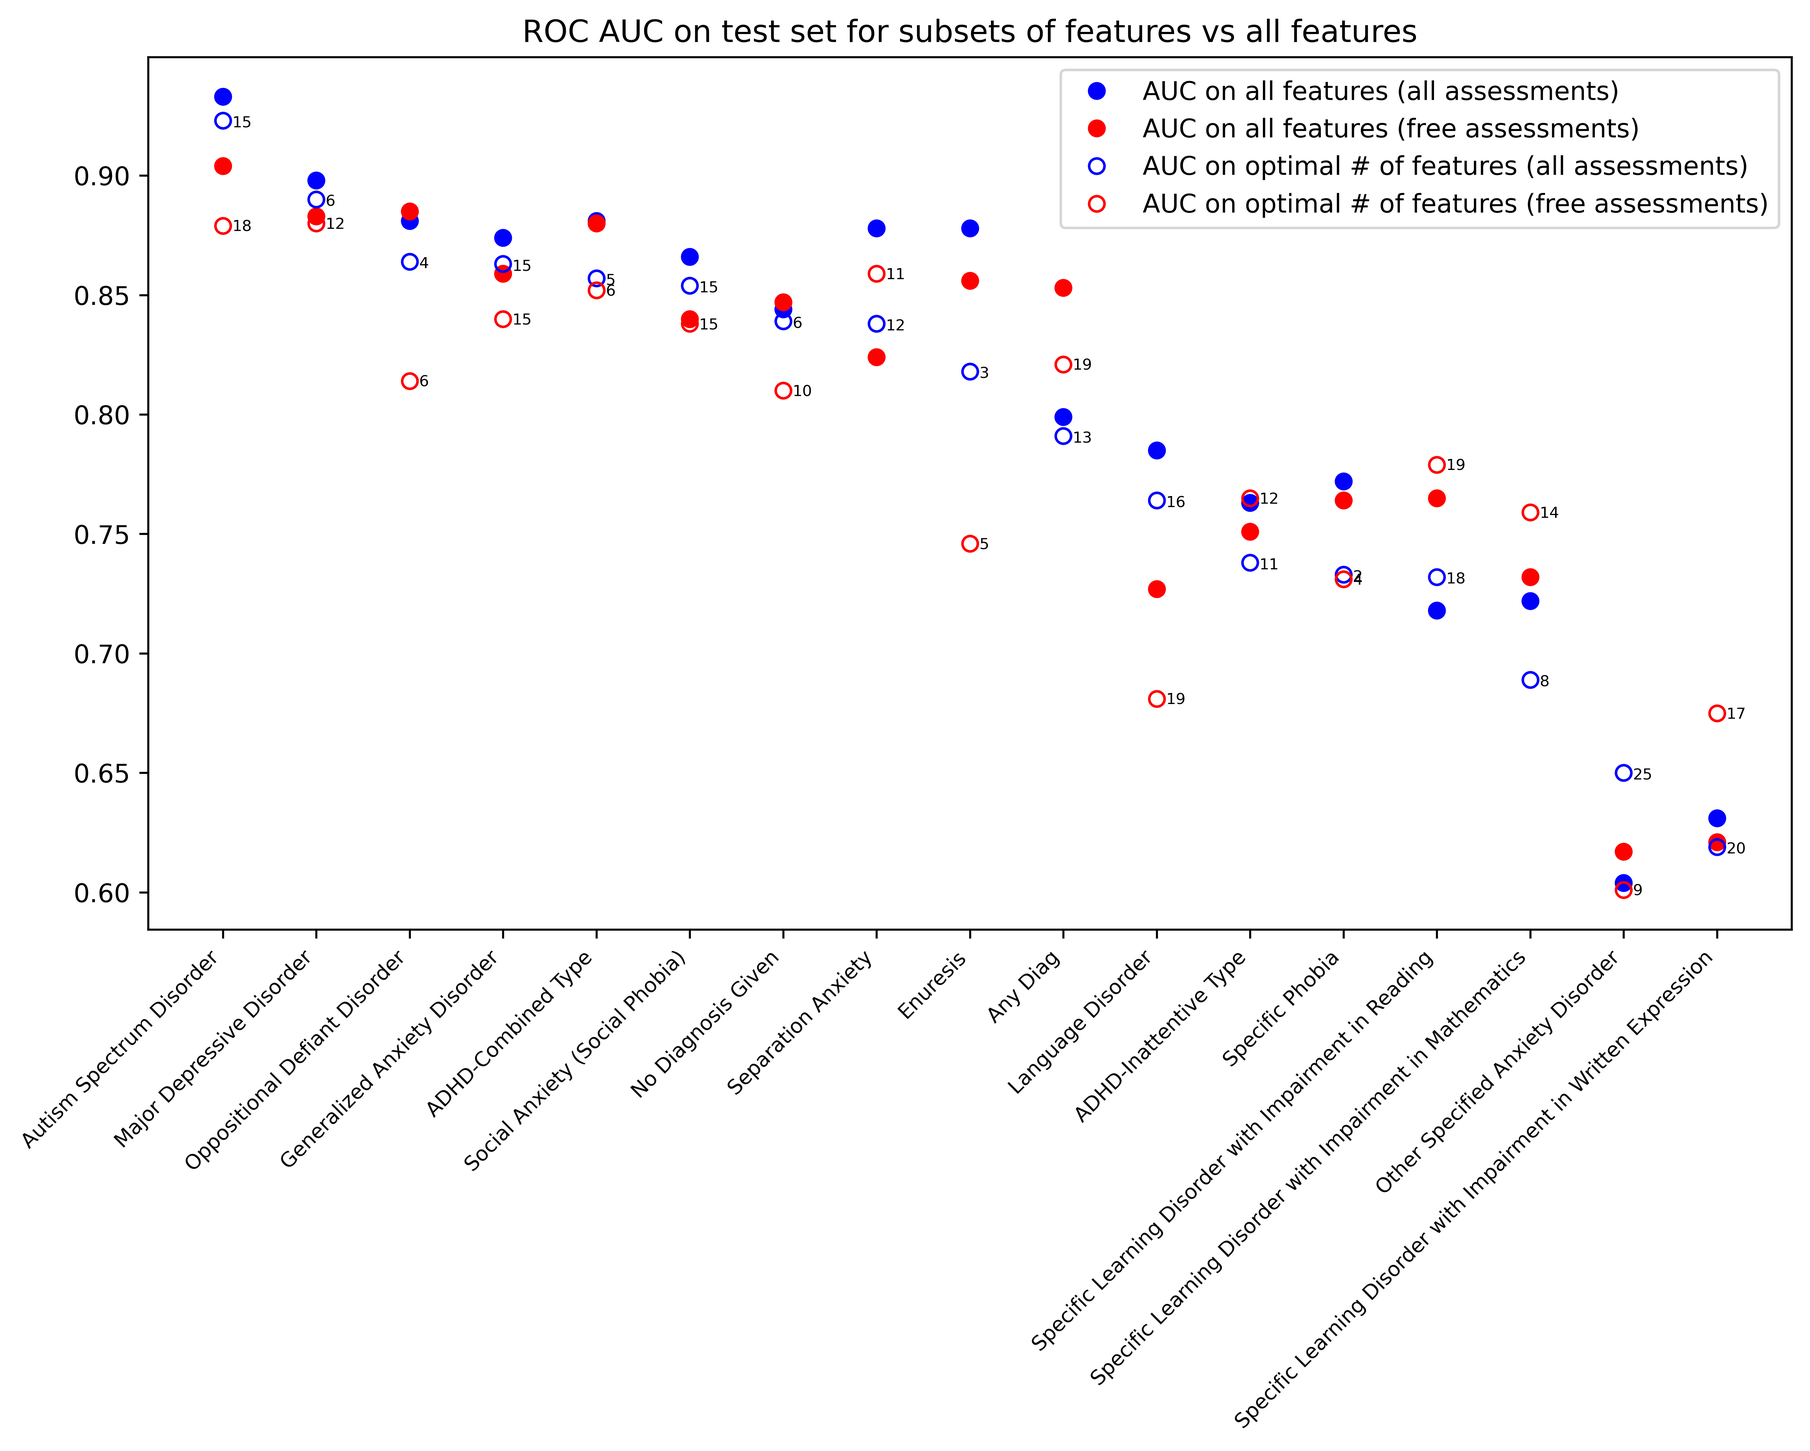
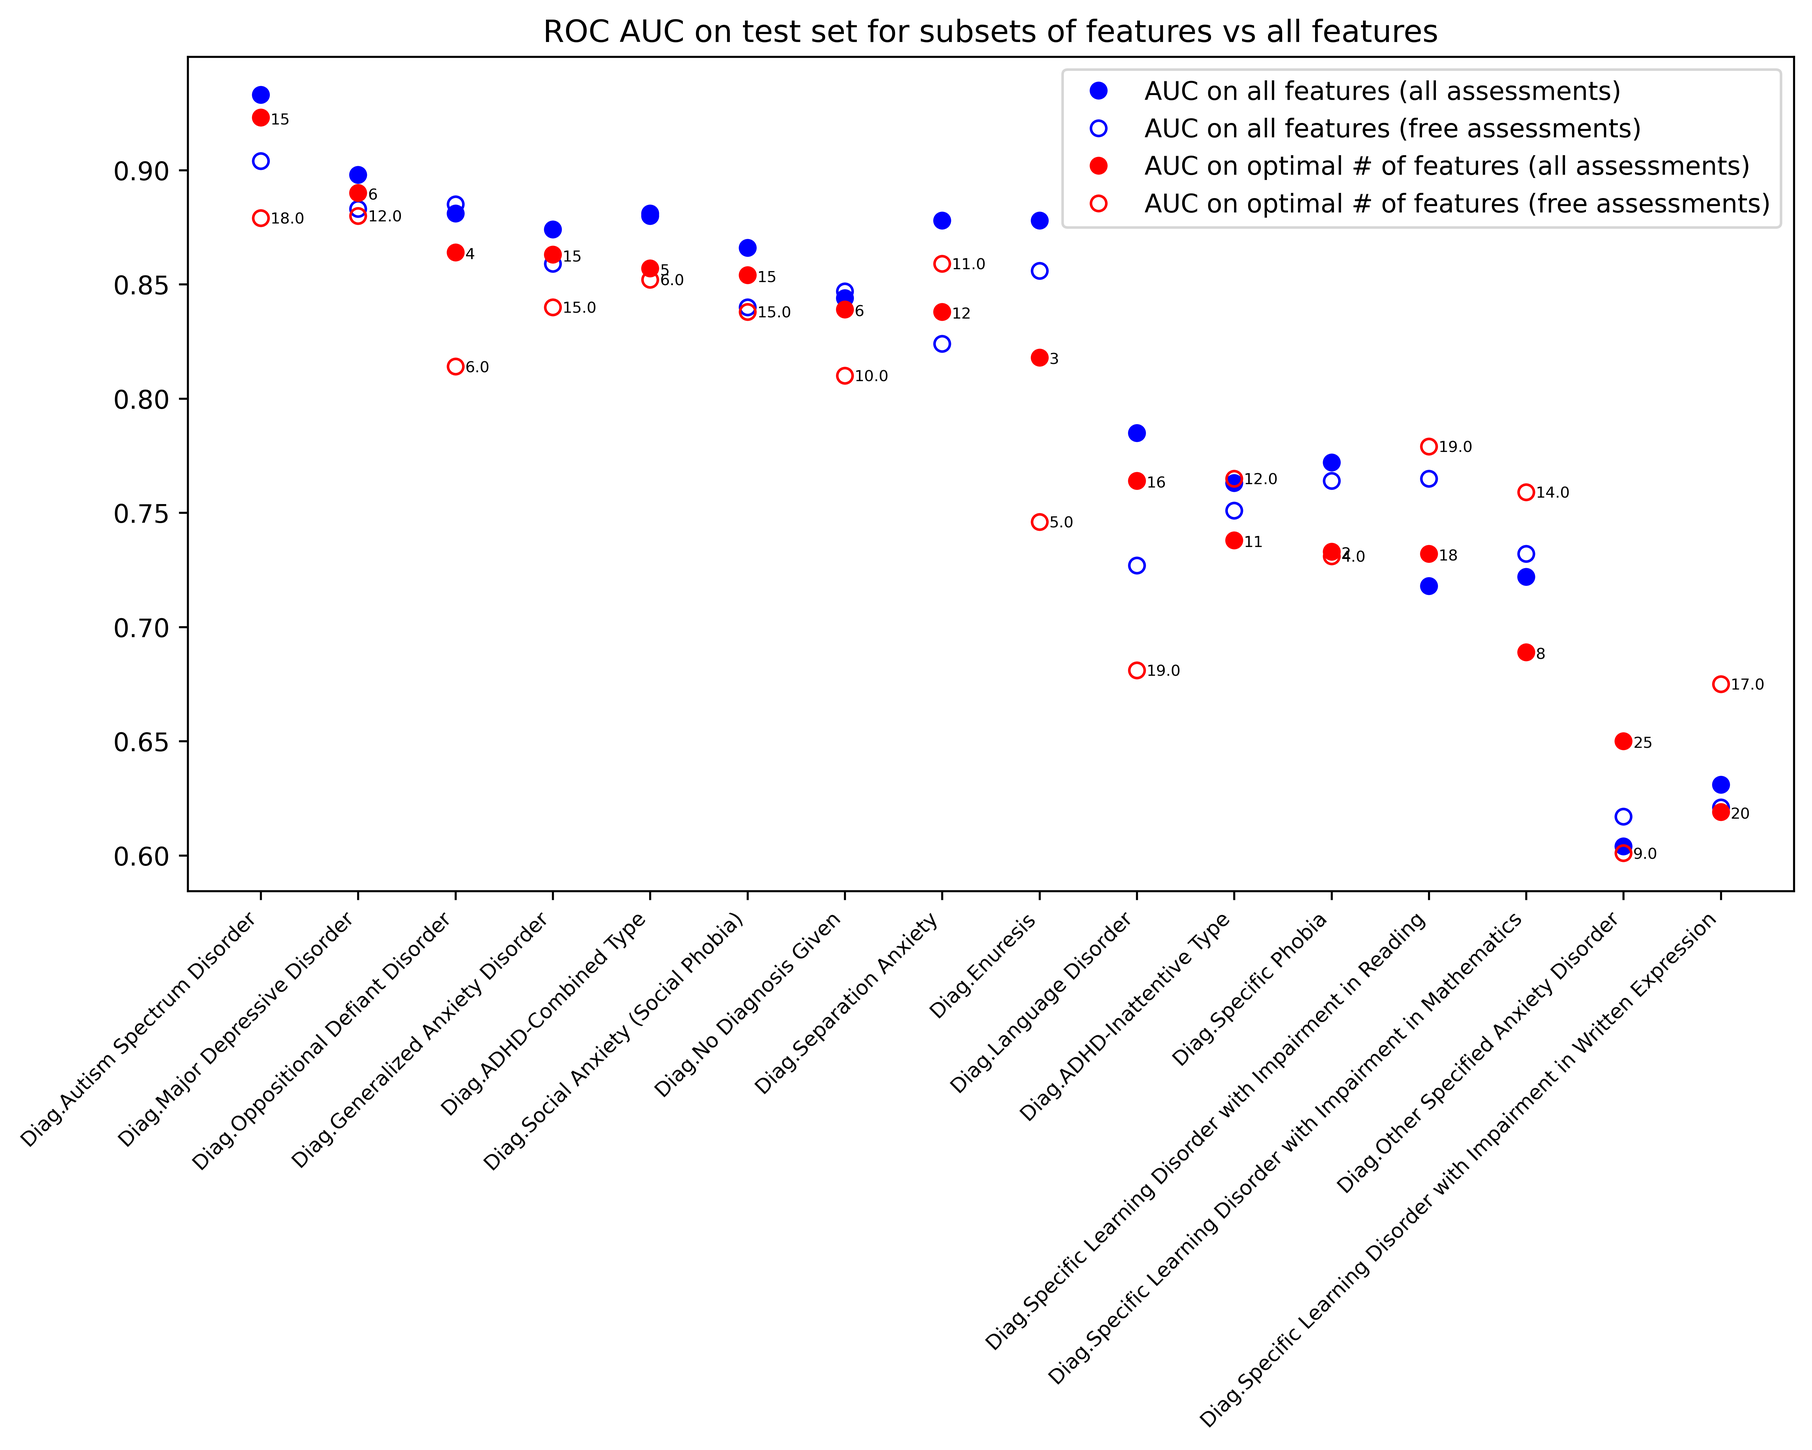
refactor, save tables

diff --git a/make_plots.py b/make_plots.py
@@ -4,6 +4,8 @@ import pandas as pd
 import matplotlib.pyplot as plt
 import seaborn as sns
 
+from make_final_tables import read_data_eval_subsets
+
 diagnosis_dict = {
         'Diag.Major Depressive Disorder': 'MDD',
         'Diag.Autism Spectrum Disorder': 'ASD',
@@ -24,82 +26,20 @@ diagnosis_dict = {
         'Diag.Other Specified Anxiety Disorder': 'Other Anxiety'
     }
 
-def read_data_eval_orig():
-    # Read report tables to visualize
-    path_eval_orig = "../diagnosis_predictor_data/reports/evaluate_original_models/"
-    dir_eval_orig_all = get_newest_non_empty_dir_in_dir(path_eval_orig, ["first_assessment_to_drop", # several assessments were used as opposed to one single assessment
-                                                                    "only_free_assessments__0",
-                                                                    #"debug_mode__False"
-                                                                    ])
-    dir_eval_orig_free = get_newest_non_empty_dir_in_dir(path_eval_orig, ["first_assessment_to_drop", # several assessments were used as opposed to one single assessment
-                                                                    "only_free_assessments__1",
-                                                                    #"debug_mode__False"
-                                                                    ])
-    
-    return dir_eval_orig_all, dir_eval_orig_free
+def make_df_to_plot_thresholds(dir_eval_subsets_all, filename):
 
-def read_data_eval_subsets():
+    df_opt_features_all = pd.read_csv(dir_eval_subsets_all + "sens-spec-on-subsets-test-set-optimal-nb-features/" + filename, 
+                                      index_col=0)
 
-    path_eval_subsets = "../diagnosis_predictor_data/reports/evaluate_models_on_feature_subsets/"
-    dir_eval_subsets_all = get_newest_non_empty_dir_in_dir(path_eval_subsets, ["first_assessment_to_drop", # several assessments were used as opposed to one single assessment
-                                                                  "only_free_assessments__0",
-                                                                  #"debug_mode__False"
-                                                                  ])
-    dir_eval_subsets_free = get_newest_non_empty_dir_in_dir(path_eval_subsets, ["first_assessment_to_drop", # several assessments were used as opposed to one single assessment
-                                                                  "only_free_assessments__1",
-                                                                  #"debug_mode__False"
-                                                                  ])
-
-    return dir_eval_subsets_all, dir_eval_subsets_free
-
-def make_df_to_plot_eval_orig(dir_eval_orig_all, dir_eval_orig_free):
-    # Read ROC AUC on all features on test set and for only healthy controls, for all assessments and free assessments
-    eval_orig_all_df = pd.read_csv(dir_eval_orig_all + "performance_table_all_features.csv", index_col=0)
-    eval_orig_free_df = pd.read_csv(dir_eval_orig_free + "performance_table_all_features.csv", index_col=0)
-
-    # Each row is diagnosis (index), plot ROC AUC column and ROC AUC healthy controls column. 
-    # Plot both for all assessments and free assessments on the same plot, add number of positive examples to each diagnosis
-    eval_orig_all_df = eval_orig_all_df[["ROC AUC", "ROC AUC Healthy Controls", "# of Positive Examples"]]
-    eval_orig_free_df = eval_orig_free_df[["ROC AUC", "ROC AUC Healthy Controls"]]
-    eval_orig_all_df.columns = ["ROC AUC all assessments", "ROC AUC healthy controls all assessments", "# of Positive Examples"]
-    eval_orig_free_df.columns = ["ROC AUC free assessments", "ROC AUC healthy controls free assessments"]
-    eval_orig_df = eval_orig_all_df.merge(eval_orig_free_df, left_index=True, right_index=True).sort_values(by="ROC AUC all assessments", ascending=False)
-
-    # Rephrase diags to shorter names
-    eval_orig_df = eval_orig_df.rename(index=diagnosis_dict)
-
-    return eval_orig_df
-
-def make_df_to_plot_eval_subsets(dir_eval_subsets_all, dir_eval_subsets_free):
-    df_opt_features_all = pd.read_csv(dir_eval_subsets_all + "auc-sens-spec-on-subsets-test-set-optimal-threshold-optimal-nb-features.csv", index_col=1)
-    df_opt_features_free = pd.read_csv(dir_eval_subsets_free + "auc-sens-spec-on-subsets-test-set-optimal-threshold-optimal-nb-features.csv", index_col=1)
-
-    df_manual = pd.read_csv("output/manual_scoring_analysis/manual_subsale_scores_vs_ml.csv", index_col=0)
-
-    # Make one dataset with all info
-    df_opt_features_all = df_opt_features_all[["AUC", "Number of features"]]
-    df_opt_features_all.columns = ["AUC all assessments", "Optimal # of features all assessments"]
-    df_opt_features_free = df_opt_features_free[["AUC", "Number of features"]]
-    df_opt_features_free.columns = ["AUC free assessments", "Optimal # of features free assessments"]
-    df_opt_features = df_opt_features_all.merge(df_opt_features_free, left_index=True, right_index=True)
-
-    # Add manual scoring
-    df_opt_features = df_opt_features.merge(df_manual, left_index=True, right_index=True).sort_values(by="Best subscale score", ascending=False)
-
-    # Rephrase diags to shorter names
-    df_opt_features = df_opt_features.rename(index=diagnosis_dict)
-    print(df_opt_features)
-
-    return df_opt_features
-
+    return df_opt_features_all
 
 def plot_eval_orig(eval_orig_df):
     # Plot on same plot, one point for each diagnosis, connext diagnoses with lines
     plt.figure(figsize=(10, 5))
     plt.title("ROC AUC for all features")
-    plt.plot(eval_orig_df["ROC AUC all assessments"], label="all assessments", marker="o", linestyle="", color="blue")
-    plt.plot(eval_orig_df["ROC AUC free assessments"], label="free assessments", marker="*", linestyle="", color="blue")
-    plt.plot(eval_orig_df["ROC AUC healthy controls all assessments"], label="healthy controls all assessments", marker="o", linestyle="", color="red")
+    plt.plot(eval_orig_df["AUC all features all assessments"], label="all assessments", marker="o", linestyle="", color="blue")
+    plt.plot(eval_orig_df["AUC all features free assessments"], label="free assessments", marker="o", linestyle="", color="blue", markerfacecolor='none')
+    plt.plot(eval_orig_df["AUC all features healthy controls all assessments"], label="healthy controls all assessments", marker="o", linestyle="", color="red")
     #plt.plot(eval_orig_df["ROC AUC healthy controls free assessments"], label="healthy controls free assessments", marker="o", linestyle="--", color="green")
     plt.xticks(rotation=45, ha="right", size=8)
     plt.legend(loc="lower right")
@@ -141,47 +81,69 @@ def plot_manual_vs_ml(eval_subsets_df):
     
     plt.savefig("output/viz/ROC_AUC_subsets.png", bbox_inches="tight", dpi=600)
 
-def plot_opt_num_features(eval_subsets_df):
-    opt_vs_all_df = pd.read_csv("output/compare_auc_at_optimal_nb_features_vs_all_features.csv", index_col=0).sort_values(by="ROC AUC optimal features all assessments", ascending=False)
+def plot_opt_num_features(opt_vs_all_df):
+    opt_vs_all_df = opt_vs_all_df.sort_values(by="AUC optimal features all assessments", ascending=False)
     
     # Plot AUC on all features all assessments, AUC on optimal # of features all assessments, AUC on optimal # of features free assessments, AUC on all features free assessments
     plt.figure(figsize=(10, 8))
     plt.title("ROC AUC on test set for subsets of features vs all features")
-    plt.plot(opt_vs_all_df["ROC AUC all features all assessments"], label="AUC on all features (all assessments)", marker="o", linestyle="", color="blue")
-    plt.plot(opt_vs_all_df["ROC AUC all features free assessments"], label="AUC on all features (free assessments)", marker="o", linestyle="", color="red")
-    plt.plot(opt_vs_all_df["ROC AUC optimal features all assessments"], label="AUC on optimal # of features (all assessments)", marker="o", linestyle="", color="blue", markerfacecolor='none')
-    plt.plot(opt_vs_all_df["ROC AUC optimal features free assessments"], label="AUC on optimal # of features (free assessments)", marker="o", linestyle="", color="red", markerfacecolor='none')
+    plt.plot(opt_vs_all_df["AUC all features all assessments"], label="AUC on all features (all assessments)", marker="o", linestyle="", color="blue")
+    plt.plot(opt_vs_all_df["AUC all features free assessments"], label="AUC on all features (free assessments)", marker="o", linestyle="", color="blue", markerfacecolor='none')
+    plt.plot(opt_vs_all_df["AUC optimal features all assessments"], label="AUC on optimal # of features (all assessments)", marker="o", linestyle="", color="red")
+    plt.plot(opt_vs_all_df["AUC optimal features free assessments"], label="AUC on optimal # of features (free assessments)", marker="o", linestyle="", color="red", markerfacecolor='none')
     plt.xticks(rotation=45, ha="right", size=8)
     plt.legend(loc="upper right")
 
     # Print number of items next to AUC scores to the right of the markers
     opt_vs_all_df = opt_vs_all_df.reset_index()
     for i, row in opt_vs_all_df.iterrows():
-        plt.text(i+0.1, row["ROC AUC optimal features all assessments"]-0.001, str(row["Number of features all assessments"]), ha="left", va="center", fontsize=6)
-        plt.text(i+0.1, row["ROC AUC optimal features free assessments"]-0.0005, str(row["Number of features free assessments"]), ha="left", va="center", fontsize=6)
+        plt.text(i+0.1, row["AUC optimal features all assessments"]-0.001, str(row["Optimal # of features all assessments"]), ha="left", va="center", fontsize=6)
+        plt.text(i+0.1, row["AUC optimal features free assessments"]-0.0005, str(row["Optimal # of features free assessments"]), ha="left", va="center", fontsize=6)
 
     plt.tight_layout()
 
     plt.savefig("output/viz/ROC_AUC_optimal_vs_all_features.png", bbox_inches="tight", dpi=600)
 
+def plot_thresholds(thresholds_df):
+    # Drop first row (PPV always 0.5)
+    thresholds_df = thresholds_df.drop(thresholds_df.index[0])
 
-def plot_eval_subsets(eval_subsets_df):
+    # Plot sensitivity, specificity, PPV, and NPV for each threshold
+    plt.figure(figsize=(10, 8))
+    plt.title("Sensitivity, specificity, PPV, and NPV for each threshold for ASD diagnosis, optimal # of features, all assessments")
+    plt.plot(thresholds_df.index, thresholds_df["Sensitivity"], label="Sensitivity", marker="o", linestyle="-", color="blue")
+    plt.plot(thresholds_df.index, thresholds_df["Specificity"], label="Specificity", marker="o", linestyle="-", color="red")
+    plt.plot(thresholds_df.index, thresholds_df["PPV"], label="PPV", marker="o", linestyle="-", color="green")
+    plt.plot(thresholds_df.index, thresholds_df["NPV"], label="NPV", marker="o", linestyle="-", color="orange")
+    plt.xlim(thresholds_df.index[0], thresholds_df.index[-1])
+    plt.xticks(thresholds_df.index, rotation=45, ha="right", size=8)
+    plt.legend(loc="upper right")
 
-    plot_manual_vs_ml(eval_subsets_df)
-    plot_opt_num_features(eval_subsets_df)
+    plt.tight_layout()
+
+    plt.savefig("output/viz/sensitivity_specificity_PPV_NPV.png", bbox_inches="tight", dpi=600)
+
 
 def main():
-    dir_eval_orig_all, dir_eval_orig_free = read_data_eval_orig()
-    print("Reading reports from: ", dir_eval_orig_all, dir_eval_orig_free)
 
-    eval_orig_df = make_df_to_plot_eval_orig(dir_eval_orig_all, dir_eval_orig_free)
+    # Read performance tables
+    eval_orig_df = pd.read_csv("output/eval_orig.csv", index_col=0)
+    eval_subsets_df = pd.read_csv("output/eval_subsets.csv", index_col=0)
+    compare_orig_subsets_df = pd.read_csv("output/compare_orig_vs_subsets.csv", index_col=0)
+
+    # Read thresholds data from diagnosis_predictor_data (for all assessments, that's why using dir_eval_subsets_all[0])
+    dir_eval_subsets_all = read_data_eval_subsets()
+    filename = "Diag.Autism Spectrum Disorder.csv"
+    thresholds_df = make_df_to_plot_thresholds(dir_eval_subsets_all[0], filename)
+    
+    # Rephrase diags to shorter names
+    eval_orig_df = eval_orig_df.rename(index=diagnosis_dict)
+    eval_subsets_df = eval_subsets_df.rename(index=diagnosis_dict)
+
     plot_eval_orig(eval_orig_df)
-
-    dir_eval_subsets_all, dir_eval_subsets_free = read_data_eval_subsets()
-    print("Reading reports from: ", dir_eval_subsets_all, dir_eval_subsets_free)
-
-    eval_subsets_df = make_df_to_plot_eval_subsets(dir_eval_subsets_all, dir_eval_subsets_free)
-    plot_eval_subsets(eval_subsets_df)
+    plot_manual_vs_ml(eval_subsets_df)
+    plot_opt_num_features(compare_orig_subsets_df)
+    plot_thresholds(thresholds_df)
 
 if __name__ == "__main__":
     main()

diff --git a/make_final_tables.py b/make_final_tables.py
@@ -1,0 +1,82 @@
+import pandas as pd
+import os, datetime
+import json
+
+from helpers import get_newest_non_empty_dir_in_dir
+
+def read_data_eval_orig():
+    # Read report tables to visualize
+    path_eval_orig = "../diagnosis_predictor_data/reports/evaluate_original_models/"
+    dir_eval_orig_all = get_newest_non_empty_dir_in_dir(path_eval_orig, ["first_assessment_to_drop", # several assessments were used as opposed to one single assessment
+                                                                    "only_free_assessments__0",
+                                                                    #"debug_mode__False"
+                                                                    ])
+    dir_eval_orig_free = get_newest_non_empty_dir_in_dir(path_eval_orig, ["first_assessment_to_drop", # several assessments were used as opposed to one single assessment
+                                                                    "only_free_assessments__1",
+                                                                    #"debug_mode__False"
+                                                                    ])
+    
+    return dir_eval_orig_all, dir_eval_orig_free
+
+def read_data_eval_subsets():
+
+    path_eval_subsets = "../diagnosis_predictor_data/reports/evaluate_models_on_feature_subsets/"
+    dir_eval_subsets_all = get_newest_non_empty_dir_in_dir(path_eval_subsets, ["first_assessment_to_drop", # several assessments were used as opposed to one single assessment
+                                                                  "only_free_assessments__0",
+                                                                  #"debug_mode__False"
+                                                                  ])
+    dir_eval_subsets_free = get_newest_non_empty_dir_in_dir(path_eval_subsets, ["first_assessment_to_drop", # several assessments were used as opposed to one single assessment
+                                                                  "only_free_assessments__1",
+                                                                  #"debug_mode__False"
+                                                                  ])
+
+    return dir_eval_subsets_all, dir_eval_subsets_free
+
+def make_df_to_plot_eval_orig(dir_eval_orig_all, dir_eval_orig_free):
+    # Read ROC AUC on all features on test set and for only healthy controls, for all assessments and free assessments
+    eval_orig_all_df = pd.read_csv(dir_eval_orig_all + "performance_table_all_features.csv", index_col=0)
+    eval_orig_free_df = pd.read_csv(dir_eval_orig_free + "performance_table_all_features.csv", index_col=0)
+
+    # Each row is diagnosis (index), plot ROC AUC column and ROC AUC healthy controls column. 
+    # Plot both for all assessments and free assessments on the same plot, add number of positive examples to each diagnosis
+    eval_orig_all_df = eval_orig_all_df[["ROC AUC", "ROC AUC Healthy Controls", "# of Positive Examples"]]
+    eval_orig_free_df = eval_orig_free_df[["ROC AUC", "ROC AUC Healthy Controls"]]
+    eval_orig_all_df.columns = ["AUC all features all assessments", "AUC all features healthy controls all assessments", "# of Positive Examples"]
+    eval_orig_free_df.columns = ["AUC all features free assessments", "AUC all features healthy controls free assessments"]
+    eval_orig_df = eval_orig_all_df.merge(eval_orig_free_df, left_index=True, right_index=True).sort_values(by="AUC all features all assessments", ascending=False)
+
+    return eval_orig_df
+
+def make_df_to_plot_eval_subsets(dir_eval_subsets_all, dir_eval_subsets_free):
+    df_opt_features_all = pd.read_csv(dir_eval_subsets_all + "auc-sens-spec-on-subsets-test-set-optimal-threshold-optimal-nb-features.csv", index_col=1)
+    df_opt_features_free = pd.read_csv(dir_eval_subsets_free + "auc-sens-spec-on-subsets-test-set-optimal-threshold-optimal-nb-features.csv", index_col=1)
+
+    df_manual = pd.read_csv("output/manual_scoring_analysis/manual_subsale_scores_vs_ml.csv", index_col=0)
+
+    # Make one dataset with all info
+    df_opt_features_all = df_opt_features_all[["AUC", "Number of features"]]
+    df_opt_features_all.columns = ["AUC optimal features all assessments", "Optimal # of features all assessments"]
+    df_opt_features_free = df_opt_features_free[["AUC", "Number of features"]]
+    df_opt_features_free.columns = ["AUC optimal features free assessments", "Optimal # of features free assessments"]
+    df_opt_features = df_opt_features_all.merge(df_opt_features_free, left_index=True, right_index=True)
+
+    # Add manual scoring
+    df_opt_features = df_opt_features.merge(df_manual, left_index=True, right_index=True).sort_values(by="Best subscale score", ascending=False)
+
+    return df_opt_features
+
+def main():
+    dir_eval_orig_all, dir_eval_orig_free = read_data_eval_orig()
+    dir_eval_subsets_all, dir_eval_subsets_free = read_data_eval_subsets()
+    print("Reading reports from: ", dir_eval_orig_all, dir_eval_orig_free)
+    print("Reading reports from: ", dir_eval_subsets_all, dir_eval_subsets_free)
+
+    eval_orig_df = make_df_to_plot_eval_orig(dir_eval_orig_all, dir_eval_orig_free)
+    eval_subsets_df = make_df_to_plot_eval_subsets(dir_eval_subsets_all, dir_eval_subsets_free)
+    compare_orig_vs_subsets_df = eval_orig_df.merge(eval_subsets_df, left_index=True, right_index=True)
+
+    eval_orig_df.to_csv("output/eval_orig.csv")
+    eval_subsets_df.to_csv("output/eval_subsets.csv")
+    compare_orig_vs_subsets_df.to_csv("output/compare_orig_vs_subsets.csv")
+if __name__ == "__main__":
+    main()
